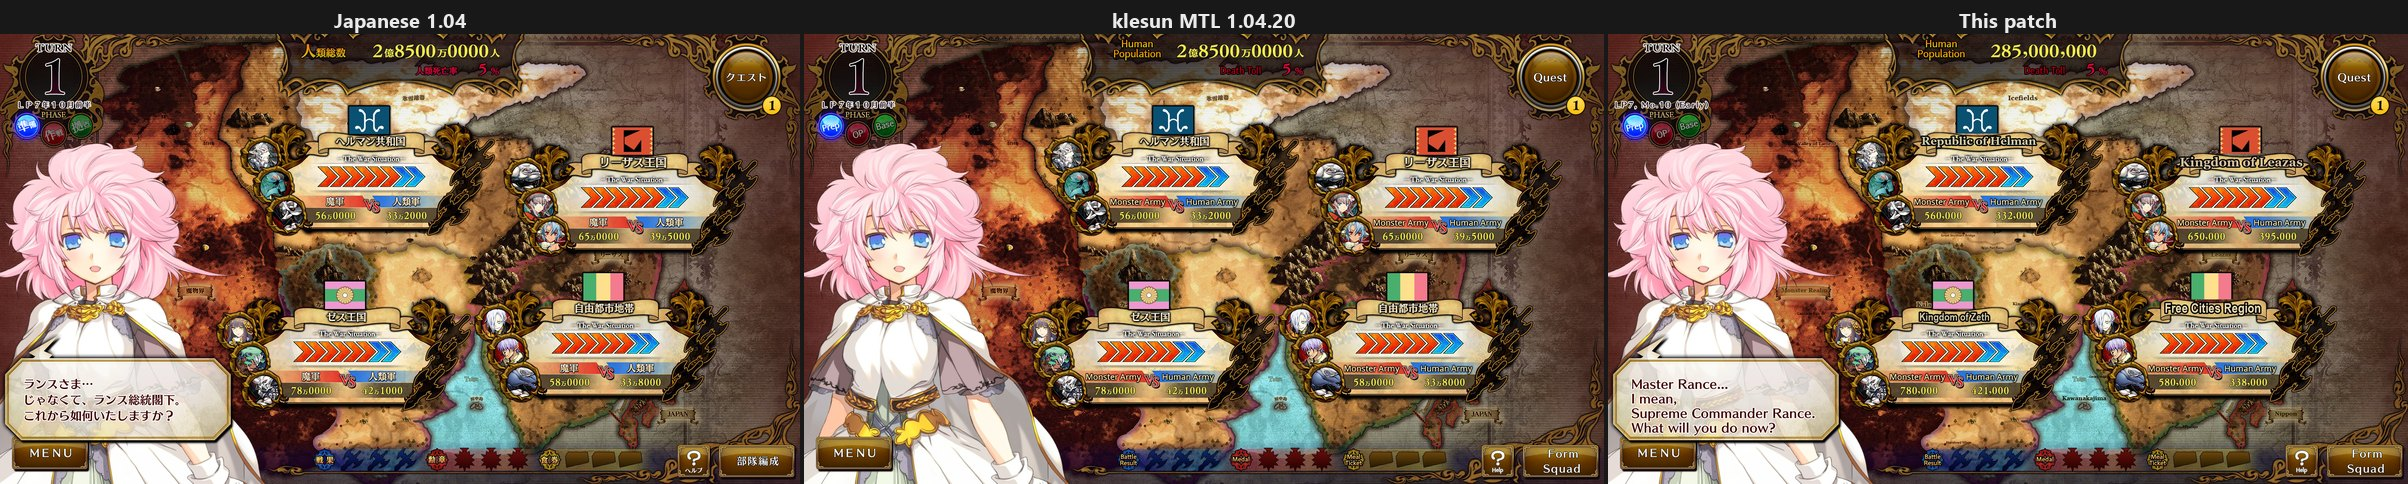
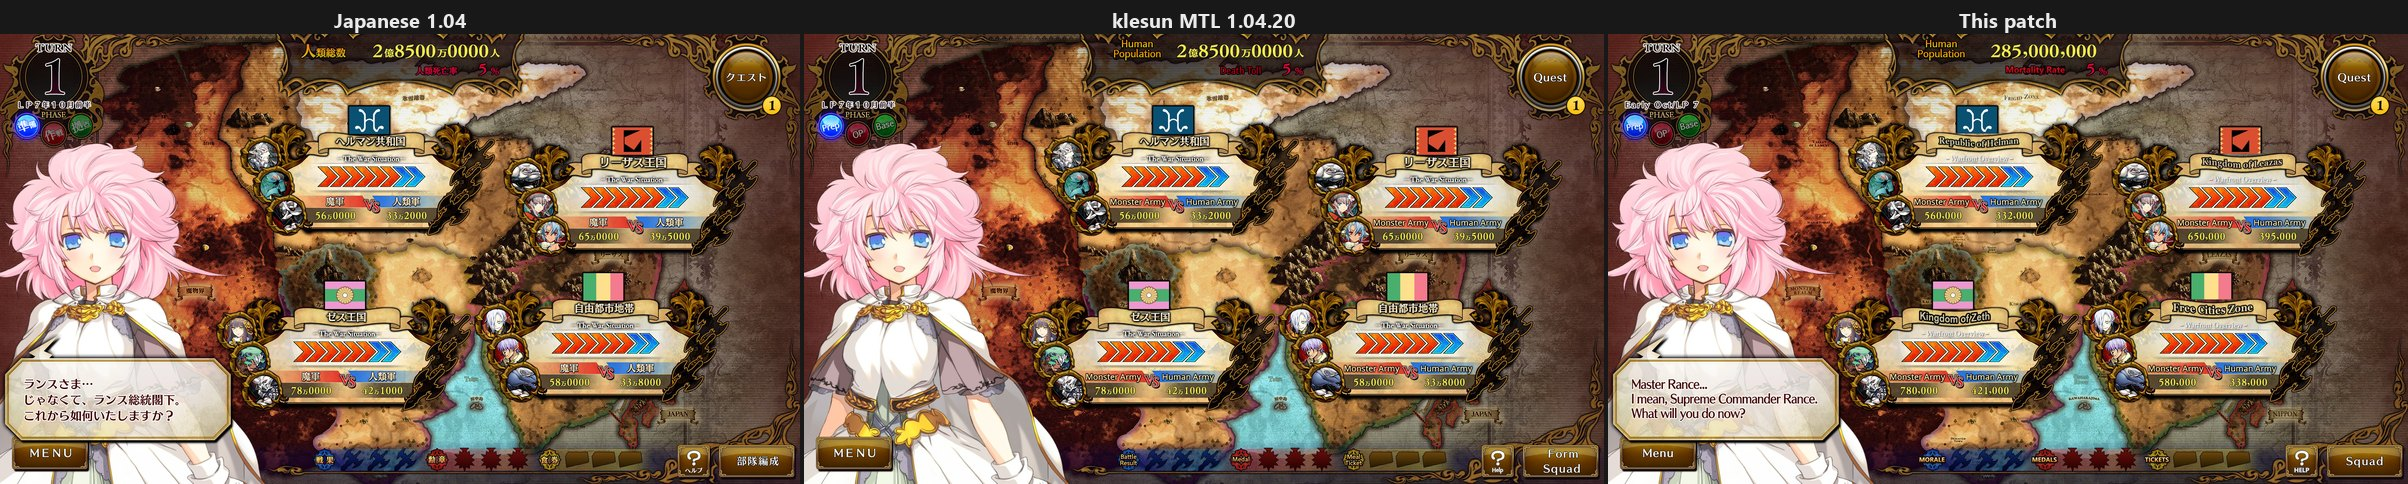
v2.0.5: changelog (translation pass, map rework, fix rounds 2-3), README and METHOD, image comparisons re-shot / re-rendered from the v2.0.5 build, War Situation panel pair

diff --git a/CHANGELOG.md b/CHANGELOG.md
@@ -1,18 +1,57 @@
 # Changelog
 
-## v2.0.5 - 2026-11-27
-Fix round (GitHub #46, #55, #57, #58). Installs over v2.0.4 (or anything older) in place.
-- Text boxes (#58): a box is often several lines of the script shown one after another, and the English kept the
-  Japanese line breaks (two short lines, then a full one). Where a sentence continues onto the next line, the lines
-  now run on as one paragraph wrapped to the box width; a break after the end of a sentence stays. About 40,000
-  places, about 15,000 fewer lines; backlog, skip, voices and read-text marks work as before.
-- Maps (#57): the town by Rance Castle reads "Cidade" on every map, war-situation panel, the flag plate and the title
-  map (some still showed AliceSoft's painted "CITY").
+## v2.0.5 - 2026-11-28
+Translation pass, map rework and fix rounds 2 and 3 (GitHub #46, #55, #57-#73). Installs over v2.0.4 (or anything
+older) in place.
+
+**Translation**
+- Story-wide localisation pass: every story batch was read again against the Japanese. About 13,000 lines were
+  rewritten: stiff, Japanese-shaped narration now reads as natural English, dialogue where a joke, idiom or set phrase
+  was lost word for word says what the line actually does, and half-sentences lost where two Japanese lines had been
+  merged are restored.
+- Quest maps (#64): all captions and assistant idle lines (about 1,800 strings) retranslated from the Japanese.
+- Card-get profile screen (#70, #71): all 670 character descriptions and the names and jobs retranslated from the
+  Japanese; the skill line uses short "Skill LVn" terms and fits on screen.
+- Names (#72): Japanese full names given name first everywhere, as in MangaGamer's releases, and card names spelled
+  like the profiles and the story (381 story lines, 48 card names).
+- Terms from the official Rance X English: Frigid Zone, Mortality Rate, Warfront Overview, Free Cities Zone, Morale,
+  Squad, "Early Oct/LP 7" dates; 鬼 is "oni" as in the official Sengoku Rance; leftover "demon" wording in quest
+  choices, quest lists and medals replaced (#63); 285 skill names redone from the Japanese.
+- Text boxes (#58): the English kept the Japanese line breaks (two short lines, then a full one). Where a sentence
+  continues onto the next line, it now runs on as one paragraph wrapped to the box width; a break after the end of a
+  sentence stays. About 40,000 places, about 15,000 fewer lines; backlog, skip, voices and read-text marks work as
+  before.
+- Text added to the same box after a click is no longer glued to the previous text (#68, 291 places).
+
+**Maps**
+- The map lettering was redone to look painted into the maps instead of pasted on top, after the official English
+  map style: one classical serif in capitals and small caps, region names lettered along the banner scrolls, long
+  names stacked instead of squeezed, ink and gold that take the paper's grain and tone, rivers and seas in the
+  painted water lettering. This covers the 13 regional story maps, the parchment world maps, the turn map and its
+  copies, the quest-table maps, the War Situation panels and the war-status map (#59).
+- The title-screen map keeps its own art; only its lettering is replaced.
+- War Situation panels (#73): names centred on their places, AliceSoft's painted captions (Fort of Banri, Tenmabashi)
+  in English, half-erased Japanese cleaned up, the FALLEN stamp red and glowing like the Japanese one.
+- The town by Rance Castle reads "Cidade" everywhere (#57); the leftover "A" next to Nippon on the war-status map is
+  gone (#61).
+
+**Interface**
+- Menu buttons (#62): "Menu" in the game's own lettering, spaced like "Squad" and centred on the button, on the turn
+  map, quest map, battle preparation and title screen.
+- Long skill names wrap to two lines on card faces and battle skill buttons instead of running past the box (#66).
+- Quest screen (#60): long place names no longer run over the "Location" label.
+- The "Choice" caption no longer overlaps the panel ornament (#67); the "Meanwhile" scene-change caption is built the
+  same way in every transition (#65).
 - Config (#55): the note under "Accelerate Skip Mode" names the "Skip Mode Speed" slider as it is labelled.
-- Opening movie (#46): in the third movie, the art behind the name tags comes from the game's own character images
-  instead of a synthesised fill (no more shimmer in the held shot before the fiend cards), the map behind the nation
-  tags keeps its moving stripes, single-frame jumps are smoothed, and two short moments that still showed Japanese
-  (the Helman wipe and one fast pan) are fixed.
+
+**Opening movie (#46)**: in the third movie the art behind the name tags comes from the game's own character images
+instead of a synthesised fill (no more shimmer in the held shot before the fiend cards), the map behind the nation
+tags keeps its moving stripes, single-frame jumps are smoothed, and two short moments that still showed Japanese (the
+Helman wipe and one fast pan) are fixed.
+
+**Installer (#69)**: works when the game folder has a Japanese or other non-English name (it failed with
+"xdelta3: file open failed ... ???10"), and installs all or nothing: every file is patched and checked before any
+is replaced, so a failure no longer leaves a half-patched game.
 
 ## v2.0.4 - 2026-11-26
 Fix round from play-testing (GitHub #27, #30, #32-#53). Installs over v2.0.3 (or anything older) in place.

diff --git a/docs/METHOD.md b/docs/METHOD.md
@@ -41,12 +41,32 @@ About 33,500 lines (adult scenes that Claude doesn't translate) were translated 
 through Venice AI, given the same house style, voice entries, names and terms, then checked for structure (every line present
 and in its place, no Japanese left) and run through the same house-style fixes.
 
+## Localisation pass (v2.0.5)
+
+After the first full translation, every story batch was read again against the Japanese for two problems a scene-by-
+scene translation still leaves: narration that keeps the Japanese sentence shape and reads stiffly in English, and
+dialogue where a joke, idiom, set phrase or sound word was translated word for word and stopped doing what it does in
+the Japanese. The rule is the one MangaGamer's releases follow: keep the Japanese flavour readers know from the
+series (honorifics, "Gahahaha!", character tics), fix only clear failures, never weaken a line. Claude Opus rewrote
+the narration it flagged, Claude Sonnet spotted and fixed the dialogue with the Japanese in front of it, and Opus
+reviewed the changes, checking anything that grew against the Japanese so no detail was invented. About 13,000 lines
+changed, most of them narration. The quest-map captions and assistant lines and the card-get profiles were
+retranslated from the Japanese the same way.
+
 ## Images
 
 Text inside images was found by OCR across every game archive, then each image was re-lettered: the Japanese
 removed, the background repaired, and the English set in a matching font, size, colour and effect, with names taken
 from the story text so maps and dialogue agree. Every image has a status in a checklist, so nothing is skipped by
 accident. Painted scenery text (shop signs, banners) is left as it is, as the official releases do.
+
+The maps got a second pass in v2.0.5, modelled on the official English map lettering: one classical serif in
+capitals and small caps, long names stacked instead of squeezed, region names lettered along the banner scrolls, gold
+captions redrawn in AliceSoft's outlined style along the coast, wall or bridge they name. Only the pixels of the
+Japanese letters are erased (lines, icons and coasts under them are protected and redrawn), and the new ink takes
+the paper's colour, grain and scanlines instead of sitting on top as flat colour. All of it is ordinary image
+processing in Python, measured on each map; no image-generation model redraws AliceSoft's art. Every map was then
+compared with the Japanese at 3-4x for placement and leftovers.
 
 ## Interface and game data
 

diff --git a/docs/IMAGES.md b/docs/IMAGES.md
@@ -2,7 +2,8 @@
 
 Text that is drawn into the game's images (maps, memos, help screens, logos, buttons) was re-lettered by hand
 from the Japanese originals: the Japanese is removed, the background repaired, and English set in a matching font,
-size and colour. Names and terms follow the [AliceSoft Wiki](https://alicesoft.miraheze.org) and the story text.
+size and colour. Since v2.0.5 the maps are lettered after the official English map style, so the names look painted
+into the art. Names and terms follow the [AliceSoft Wiki](https://alicesoft.miraheze.org) and the story text.
 The Japanese original is always shown first. Click any image for full size. Everything shown here is interface or map art from the start of the game.
 
 - [Three versions side by side](#three-versions-side-by-side)
@@ -84,8 +85,14 @@ This patch:
 ## Maps
 
 69 story maps were re-lettered: the world map from the opening (below, with a close-up of the Zeth region) and its
-variants, every regional and Monster Realm map (one of them is at the end of this section), and the campaign maps
-with their commander name tags.
+variants, every regional and Monster Realm map (one of them is further down), and the campaign maps with their
+commander name tags.
+
+v2.0.5 redid the lettering of the regional story maps, the parchment world maps and the strategy-screen maps after
+the official English map lettering: one classical serif in capitals and small caps, region names along the banner
+scrolls, long names stacked instead of squeezed, gold captions redrawn in AliceSoft's outlined style along the coast,
+wall or bridge they name, and ink that takes the paper's grain and tone. Only the Japanese letters are erased; the
+lines, icons and coasts under them stay.
 
 Japanese original:
 
@@ -116,8 +123,16 @@ This patch:
 ![Free Cities map, this patch](images/free_cities_map_after.jpg)
 
 The maps on the strategy screens (turn map, War Situation panels, war-status screen, quest maps) share the story maps'
-labels, with AliceSoft's own painted English re-lettered in its style (see the turn map in
-[Three versions side by side](#three-versions-side-by-side)).
+labels and lettering (see the turn map in [Three versions side by side](#three-versions-side-by-side)). A War
+Situation panel, the Helman front:
+
+Japanese original:
+
+![War Situation panel, Japanese original](images/war_panel_before.jpg)
+
+This patch:
+
+![War Situation panel, this patch](images/war_panel_after.jpg)
 
 ## Nunuhara memos
 
